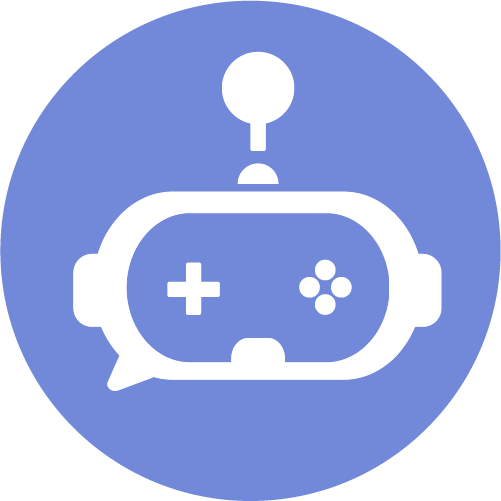
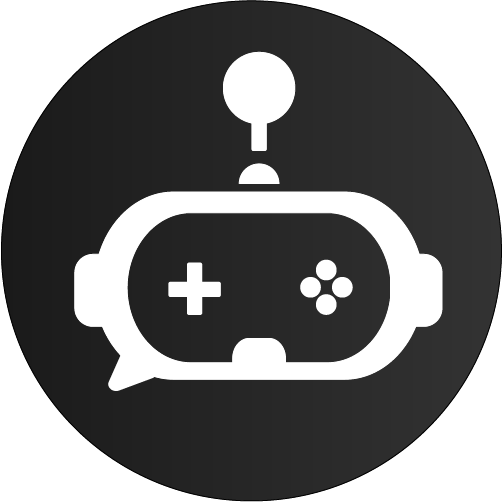
change server default pic

diff --git a/src/pages/Login/ServerList.js b/src/pages/Login/ServerList.js
@@ -182,17 +182,17 @@ const Server = ({ image, name, href }) => (
 let slidesAmount = 5, spaceBetween = 5, circleSize = "50px";
 if (window.innerWidth > Util.BREAKPOINTS.medium) {
   slidesAmount = 6;
-  spaceBetween = 3;
+  spaceBetween = 5;
   circleSize = "70px";
 }
 if (window.innerWidth > Util.BREAKPOINTS.large) {
   slidesAmount = 7;
-  spaceBetween = 3;
+  spaceBetween = 5;
   circleSize = "80px";
 }
 if (window.innerWidth > Util.BREAKPOINTS.xLarge) {
   slidesAmount = 7;
-  spaceBetween = 3;
+  spaceBetween = 5;
   circleSize = "100px";
 }
 
